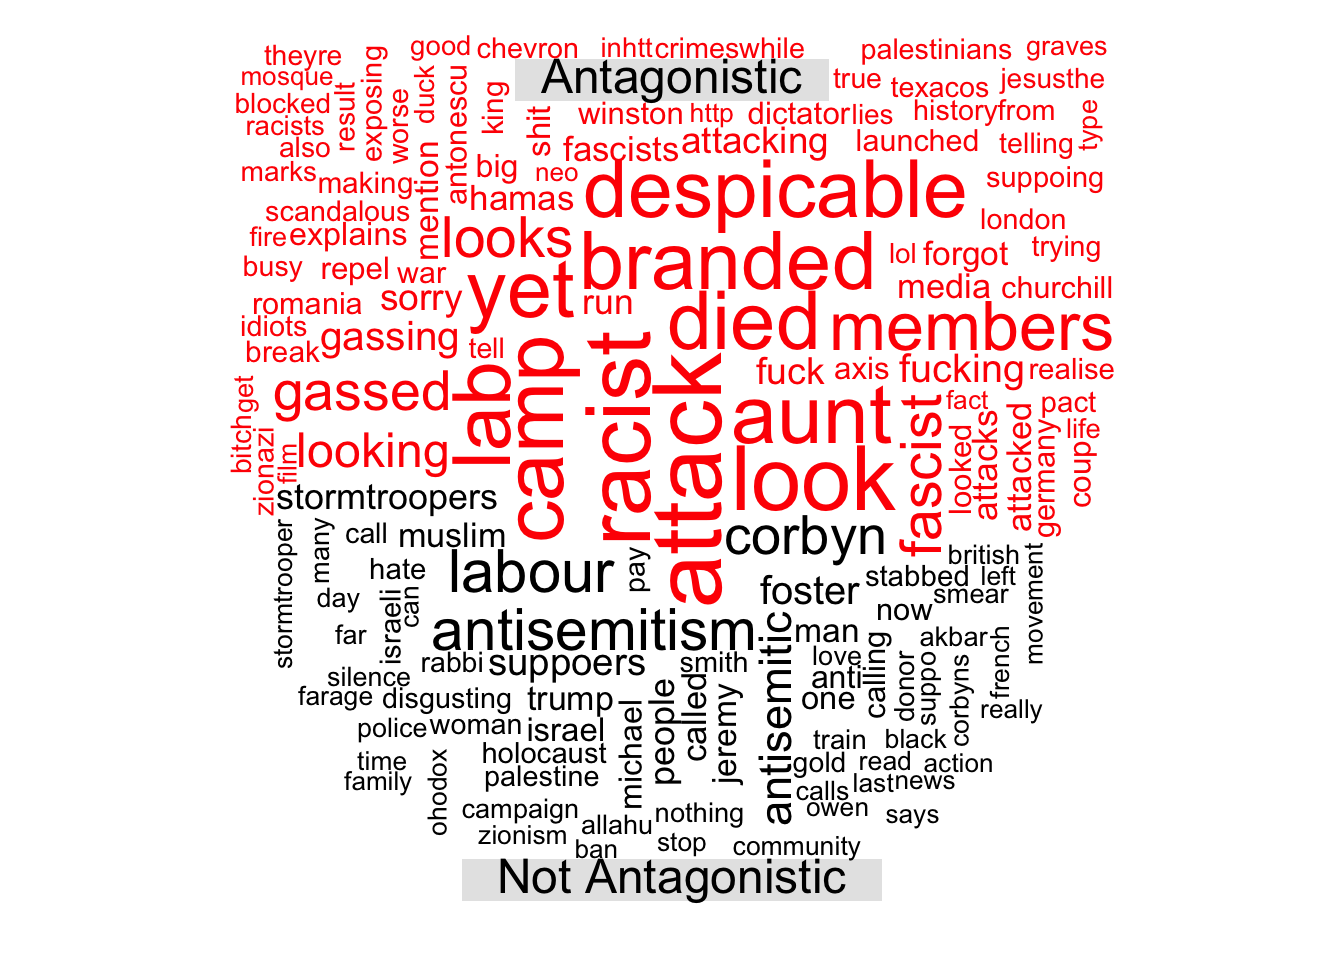
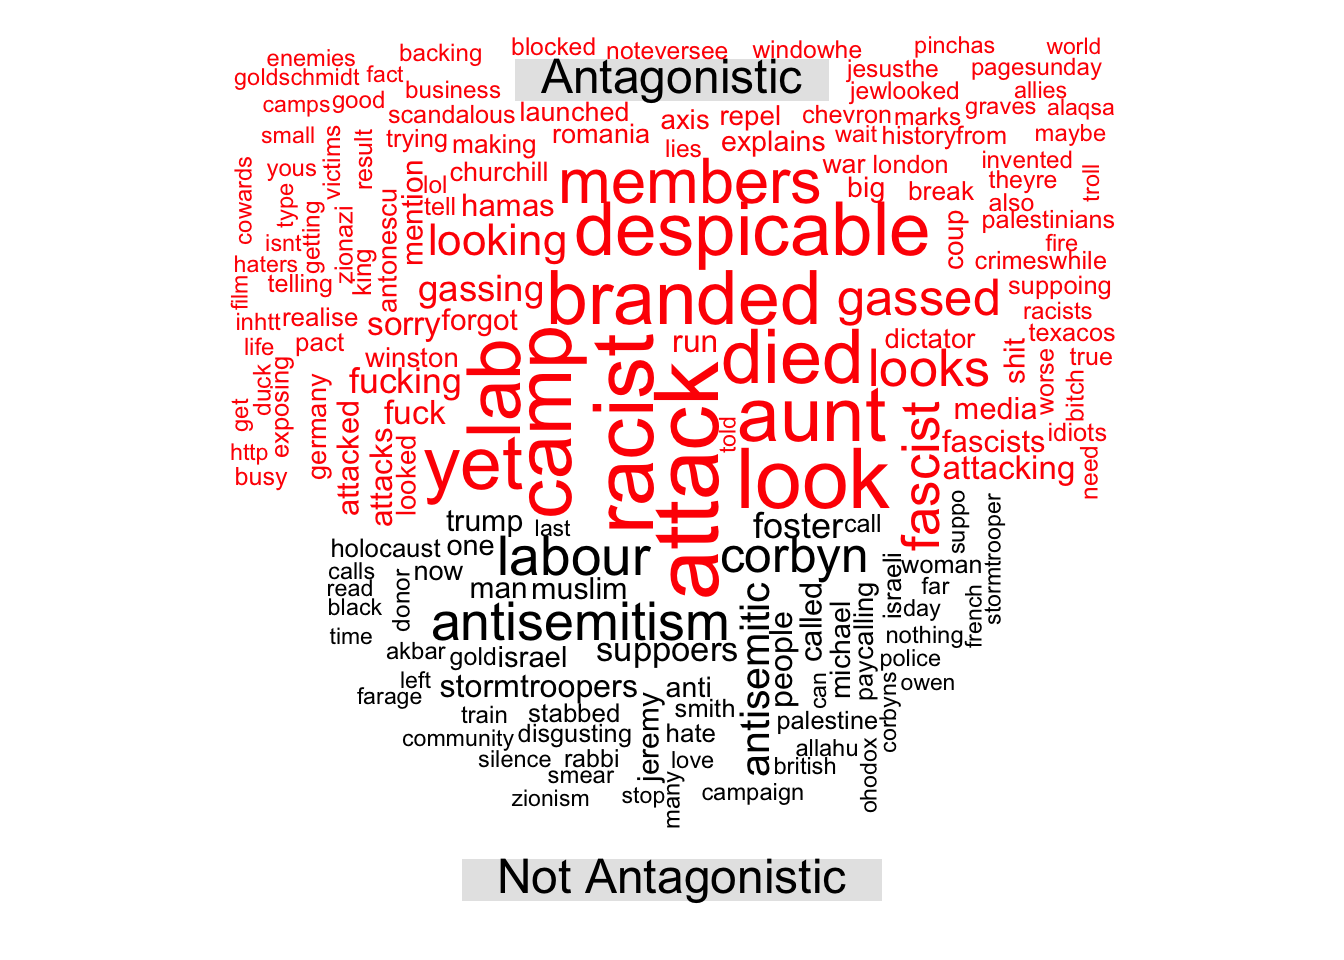
Build site.

Changed region(s): [[0.1562, 0.0312, 0.8438, 0.9062]]

diff --git a/docs/first-analysis.html b/docs/first-analysis.html
@@ -319,7 +319,7 @@ shared across the workflowr files. -->
 <p><strong>Last updated:</strong> 2017-11-03</p>
 <!-- Insert the code version (Git commit SHA1) if Git repository exists and R
  package git2r is installed -->
-<p><strong>Code version:</strong> eedccfe</p>
+<p><strong>Code version:</strong> b73e46d</p>
 <!-- Add your analysis here -->
 <pre class="r"><code>library(tidyverse)</code></pre>
 <pre><code>Loading tidyverse: ggplot2
@@ -430,94 +430,20 @@ colnames(tdm_both) &lt;-  c(&quot;Antagonistic&quot;, &quot;Not Antagonistic&quo
 <p>And here is a comparison cloud. Note that words from antagonistic content are in <strong>red</strong> and words from non-antagonistic content are in <strong>black</strong>.</p>
 <pre class="r"><code>comparison.cloud(tdm_both, random.order=FALSE,
                  colors = c(&quot;red&quot;, &quot;black&quot;),
-                 scale = c(3, 0.7),
-                 title.size=1.5, max.words=200, rot.per = 0.3)</code></pre>
-<pre><code>Warning in comparison.cloud(tdm_both, random.order = FALSE, colors =
-c(&quot;red&quot;, : jewlooked could not be fit on page. It will not be plotted.</code></pre>
-<pre><code>Warning in comparison.cloud(tdm_both, random.order = FALSE, colors =
-c(&quot;red&quot;, : windowhe could not be fit on page. It will not be plotted.</code></pre>
-<pre><code>Warning in comparison.cloud(tdm_both, random.order = FALSE, colors =
-c(&quot;red&quot;, : noteversee could not be fit on page. It will not be plotted.</code></pre>
-<pre><code>Warning in comparison.cloud(tdm_both, random.order = FALSE, colors =
-c(&quot;red&quot;, : need could not be fit on page. It will not be plotted.</code></pre>
-<pre><code>Warning in comparison.cloud(tdm_both, random.order = FALSE, colors =
-c(&quot;red&quot;, : victims could not be fit on page. It will not be plotted.</code></pre>
-<pre><code>Warning in comparison.cloud(tdm_both, random.order = FALSE, colors =
-c(&quot;red&quot;, : getting could not be fit on page. It will not be plotted.</code></pre>
-<pre><code>Warning in comparison.cloud(tdm_both, random.order = FALSE, colors =
-c(&quot;red&quot;, : business could not be fit on page. It will not be plotted.</code></pre>
-<pre><code>Warning in comparison.cloud(tdm_both, random.order = FALSE, colors =
-c(&quot;red&quot;, : invented could not be fit on page. It will not be plotted.</code></pre>
-<pre><code>Warning in comparison.cloud(tdm_both, random.order = FALSE, colors =
-c(&quot;red&quot;, : backing could not be fit on page. It will not be plotted.</code></pre>
-<pre><code>Warning in comparison.cloud(tdm_both, random.order = FALSE, colors =
-c(&quot;red&quot;, : pagesunday could not be fit on page. It will not be plotted.</code></pre>
-<pre><code>Warning in comparison.cloud(tdm_both, random.order = FALSE, colors =
-c(&quot;red&quot;, : yous could not be fit on page. It will not be plotted.</code></pre>
-<pre><code>Warning in comparison.cloud(tdm_both, random.order = FALSE, colors =
-c(&quot;red&quot;, : cowards could not be fit on page. It will not be plotted.</code></pre>
-<pre><code>Warning in comparison.cloud(tdm_both, random.order = FALSE, colors =
-c(&quot;red&quot;, : maybe could not be fit on page. It will not be plotted.</code></pre>
-<pre><code>Warning in comparison.cloud(tdm_both, random.order = FALSE, colors =
-c(&quot;red&quot;, : wait could not be fit on page. It will not be plotted.</code></pre>
-<pre><code>Warning in comparison.cloud(tdm_both, random.order = FALSE, colors =
-c(&quot;red&quot;, : enemies could not be fit on page. It will not be plotted.</code></pre>
-<pre><code>Warning in comparison.cloud(tdm_both, random.order = FALSE, colors =
-c(&quot;red&quot;, : isnt could not be fit on page. It will not be plotted.</code></pre>
+                 scale = c(2.8, 0.6),
+                 title.size=1.5, max.words=180, rot.per = 0.3)</code></pre>
 <pre><code>Warning in comparison.cloud(tdm_both, random.order = FALSE, colors =
 c(&quot;red&quot;, : defendeurope could not be fit on page. It will not be plotted.</code></pre>
 <pre><code>Warning in comparison.cloud(tdm_both, random.order = FALSE, colors =
-c(&quot;red&quot;, : troll could not be fit on page. It will not be plotted.</code></pre>
-<pre><code>Warning in comparison.cloud(tdm_both, random.order = FALSE, colors =
-c(&quot;red&quot;, : goldschmidt could not be fit on page. It will not be plotted.</code></pre>
-<pre><code>Warning in comparison.cloud(tdm_both, random.order = FALSE, colors =
 c(&quot;red&quot;, : europerabbi could not be fit on page. It will not be plotted.</code></pre>
-<pre><code>Warning in comparison.cloud(tdm_both, random.order = FALSE, colors =
-c(&quot;red&quot;, : pinchas could not be fit on page. It will not be plotted.</code></pre>
 <pre><code>Warning in comparison.cloud(tdm_both, random.order = FALSE, colors =
 c(&quot;red&quot;, : theattack could not be fit on page. It will not be plotted.</code></pre>
 <pre><code>Warning in comparison.cloud(tdm_both, random.order = FALSE, colors =
-c(&quot;red&quot;, : allies could not be fit on page. It will not be plotted.</code></pre>
-<pre><code>Warning in comparison.cloud(tdm_both, random.order = FALSE, colors =
-c(&quot;red&quot;, : haters could not be fit on page. It will not be plotted.</code></pre>
-<pre><code>Warning in comparison.cloud(tdm_both, random.order = FALSE, colors =
 c(&quot;red&quot;, : natural could not be fit on page. It will not be plotted.</code></pre>
-<pre><code>Warning in comparison.cloud(tdm_both, random.order = FALSE, colors =
-c(&quot;red&quot;, : told could not be fit on page. It will not be plotted.</code></pre>
-<pre><code>Warning in comparison.cloud(tdm_both, random.order = FALSE, colors =
-c(&quot;red&quot;, : small could not be fit on page. It will not be plotted.</code></pre>
 <pre><code>Warning in comparison.cloud(tdm_both, random.order = FALSE, colors =
 c(&quot;red&quot;, : anniversary could not be fit on page. It will not be plotted.</code></pre>
 <pre><code>Warning in comparison.cloud(tdm_both, random.order = FALSE, colors =
 c(&quot;red&quot;, : australian could not be fit on page. It will not be plotted.</code></pre>
-<pre><code>Warning in comparison.cloud(tdm_both, random.order = FALSE, colors =
-c(&quot;red&quot;, : camps could not be fit on page. It will not be plotted.</code></pre>
-<pre><code>Warning in comparison.cloud(tdm_both, random.order = FALSE, colors =
-c(&quot;red&quot;, : alaqsa could not be fit on page. It will not be plotted.</code></pre>
-<pre><code>Warning in comparison.cloud(tdm_both, random.order = FALSE, colors =
-c(&quot;red&quot;, : world could not be fit on page. It will not be plotted.</code></pre>
-<pre><code>Warning in comparison.cloud(tdm_both, random.order = FALSE, colors =
-c(&quot;red&quot;, : evil could not be fit on page. It will not be plotted.</code></pre>
-<pre><code>Warning in comparison.cloud(tdm_both, random.order = FALSE, colors =
-c(&quot;red&quot;, : worldlook could not be fit on page. It will not be plotted.</code></pre>
-<pre><code>Warning in comparison.cloud(tdm_both, random.order = FALSE, colors =
-c(&quot;red&quot;, : zionazis could not be fit on page. It will not be plotted.</code></pre>
-<pre><code>Warning in comparison.cloud(tdm_both, random.order = FALSE, colors =
-c(&quot;red&quot;, : lying could not be fit on page. It will not be plotted.</code></pre>
-<pre><code>Warning in comparison.cloud(tdm_both, random.order = FALSE, colors =
-c(&quot;red&quot;, : unseat could not be fit on page. It will not be plotted.</code></pre>
-<pre><code>Warning in comparison.cloud(tdm_both, random.order = FALSE, colors =
-c(&quot;red&quot;, : military could not be fit on page. It will not be plotted.</code></pre>
-<pre><code>Warning in comparison.cloud(tdm_both, random.order = FALSE, colors =
-c(&quot;red&quot;, : mate could not be fit on page. It will not be plotted.</code></pre>
-<pre><code>Warning in comparison.cloud(tdm_both, random.order = FALSE, colors =
-c(&quot;red&quot;, : sunday could not be fit on page. It will not be plotted.</code></pre>
-<pre><code>Warning in comparison.cloud(tdm_both, random.order = FALSE, colors =
-c(&quot;red&quot;, : complaints could not be fit on page. It will not be plotted.</code></pre>
-<pre><code>Warning in comparison.cloud(tdm_both, random.order = FALSE, colors =
-c(&quot;red&quot;, : picture could not be fit on page. It will not be plotted.</code></pre>
-<pre><code>Warning in comparison.cloud(tdm_both, random.order = FALSE, colors =
-c(&quot;red&quot;, : wipe could not be fit on page. It will not be plotted.</code></pre>
 <p><img src="figure/first-analysis.Rmd/unnamed-chunk-3-1.png" width="672" style="display: block; margin: auto;" /></p>
 <p>Lastly, the most common 25 words between groups.</p>
 <pre class="r"><code>commonality.cloud(tdm_both, random.order=FALSE, 
